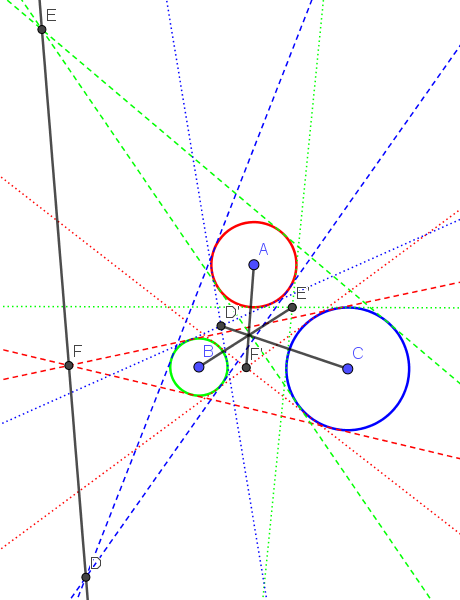
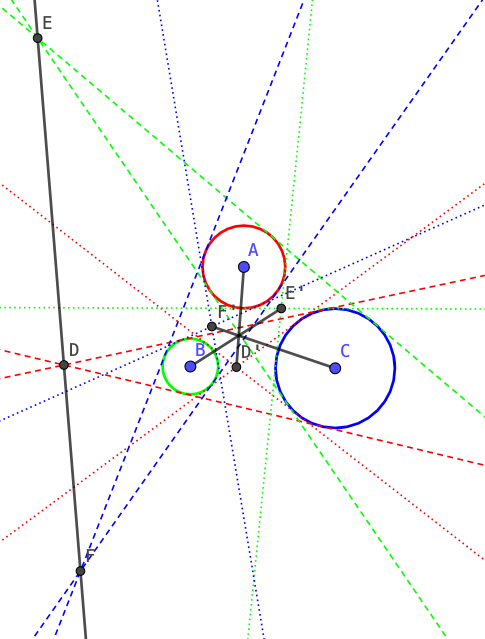
synthetic proof of X(12)
https://artofproblemsolving.com/community/c374081h2712819

diff --git a/monge.md b/monge.md
@@ -93,31 +93,41 @@ which is between *a* and *b*. So it should be the internal intersection. Denote 
 
 <img src="https://latex.codecogs.com/gif.latex?\frac{\overrightarrow{H'A}}{\overrightarrow{BH'}}=\frac{a-h'}{h'-b}=\frac{R}r\quad\text{(Eq.\,2)}">
 
+The external and internal intersections, are the external and internal **[homothetic centers](https://en.wikipedia.org/wiki/Homothetic_center#Circles)** of two circles, and they are harmonic conjugate with respect to the two circle centers:
+
+<img src="https://latex.codecogs.com/gif.latex?(A,B;H,H')=-1">
+
 For example, one circle is inside the other:
 
 <img src="https://latex.codecogs.com/gif.latex?\begin{cases}x^2+y^2=9\\x^2+(y+1)^2=1\end{cases}">
 
-The two external tangent lines are <img src="https://latex.codecogs.com/gif.latex?y=\pm\sqrt{3}ix/2-3/2"> (tangent points are <img src="https://latex.codecogs.com/gif.latex?(\pm{3}\sqrt{3}i,-6)"> and <img src="https://latex.codecogs.com/gif.latex?(\pm\sqrt{3}i,-3)">), and their intersection is <img src="https://latex.codecogs.com/gif.latex?(0,-3/2)">.
+The two external tangent lines are <img src="https://latex.codecogs.com/gif.latex?y=\pm\sqrt{3}ix/2-3/2"> (tangent points are <img src="https://latex.codecogs.com/gif.latex?(\pm{3}\sqrt{3}i,-6)"> and <img src="https://latex.codecogs.com/gif.latex?(\pm\sqrt{3}i,-3)">), and their intersection (internal homothetic center) is <img src="https://latex.codecogs.com/gif.latex?(0,-3/2)">.
 
-The two internal tangent lines are <img src="https://latex.codecogs.com/gif.latex?y=\pm\sqrt{15}ix/4-3/4"> (tangent points are <img src="https://latex.codecogs.com/gif.latex?(\pm{3}\sqrt{15}i,-12)"> and <img src="https://latex.codecogs.com/gif.latex?(\pm\sqrt{15}i,3)">), and their intersection is <img src="https://latex.codecogs.com/gif.latex?(0,-3/4)">.
+The two internal tangent lines are <img src="https://latex.codecogs.com/gif.latex?y=\pm\sqrt{15}ix/4-3/4"> (tangent points are <img src="https://latex.codecogs.com/gif.latex?(\pm{3}\sqrt{15}i,-12)"> and <img src="https://latex.codecogs.com/gif.latex?(\pm\sqrt{15}i,3)">), and their intersection (external homothetic center) is <img src="https://latex.codecogs.com/gif.latex?(0,-3/4)">.
 
 ### Monge's theorem
 
 <img src="diagrams/monge.png">
 
-**Monge's theorem** states that for any three circles in a plane, the intersection points of each of the three pairs of external tangent lines are collinear. This still holds even if one circle is completely inside the other.
+**Theorem 1** For any three circles in a plane, the intersection points of each of the three pairs of external tangent lines (i.e. three external homothetic centers) are collinear. This still holds even if one circle is completely inside the other.
 
-Let's apply Eq. 1 onto three external intersections *D*, *E* and *F*:
+This can be proved by applying Eq. 1 onto *D*, *E* and *F* and Menelaus's theorem:
 
-<img src="https://latex.codecogs.com/gif.latex?\frac{\overrightarrow{DA}}{\overrightarrow{DB}}\cdot\frac{\overrightarrow{EC}}{\overrightarrow{EA}}\cdot\frac{\overrightarrow{FB}}{\overrightarrow{FC}}=\frac{r_A}{r_B}\cdot\frac{r_C}{r_A}\cdot\frac{r_B}{r_C}=1">
+<img src="https://latex.codecogs.com/gif.latex?\frac{\overrightarrow{DB}}{\overrightarrow{DC}}\cdot\frac{\overrightarrow{EC}}{\overrightarrow{EA}}\cdot\frac{\overrightarrow{FA}}{\overrightarrow{FB}}=\frac{r_B}{r_C}\cdot\frac{r_C}{r_A}\cdot\frac{r_A}{r_B}=1">
 
-According to Menelaus's theorem, *D*, *E* and *F* are collinear.
+**Theorem 2** For three circles (*A*), (*B*) and (*C*) in a plane, the external homothetic center *D* of (*B*) and (*C*), the internal homothetic center *E'* of (*C*) and (*A*), and the internal homothetic center *F'* of (*A*) and (*B*), are collinear.
 
-The three internal intersections *D'*, *E'* and *F'* have a similar property. Let's apply Eq. 2 onto them:
+This can be proved by applying Eq. 1 onto *D*, Eq. 2 onto *E'* and *F'* and Menelaus's theorem:
 
-<img src="https://latex.codecogs.com/gif.latex?\frac{\overrightarrow{D'A}}{\overrightarrow{BD'}}\cdot\frac{\overrightarrow{E'C}}{\overrightarrow{AE'}}\cdot\frac{\overrightarrow{F'B}}{\overrightarrow{CF'}}=\frac{r_A}{r_B}\cdot\frac{r_C}{r_A}\cdot\frac{r_B}{r_C}=1">
+<img src="https://latex.codecogs.com/gif.latex?\frac{\overrightarrow{DB}}{\overrightarrow{DC}}\cdot\frac{\overrightarrow{CE'}}{\overrightarrow{E'A}}\cdot\frac{\overrightarrow{AF'}}{\overrightarrow{F'B}}=\frac{r_B}{r_C}\cdot\frac{r_C}{r_A}\cdot\frac{r_A}{r_B}=1">
 
-According to Ceva's theorem, *CD'*, *BE'* and *AF'* are concurrent.
+A famous triangle center *X*(12) mentioned [here](feuerbach.md#theorems-related-to-the-feuerbach-point) (Theorem 3) can be proved by this theorem.
+
+**Theorem 3** For three circles (*A*), (*B*) and (*C*) in a plane, let *D'*, *E'* and *F'* be the internal homothetic centers of (*B*)(*C*), (*C*)(*A*) and (*A*)(*B*), respectively, then *AD'*, *BE'* and *CF'* are concurrent.
+
+This can be proved by applying Eq. 2 onto *D'*, *E'* and *F'* and Ceva's theorem:
+
+<img src="https://latex.codecogs.com/gif.latex?\frac{\overrightarrow{BD'}}{\overrightarrow{D'C}}\cdot\frac{\overrightarrow{CE'}}{\overrightarrow{E'A}}\cdot\frac{\overrightarrow{AF'}}{\overrightarrow{F'B}}=\frac{r_B}{r_C}\cdot\frac{r_C}{r_A}\cdot\frac{r_A}{r_B}=1">
 
 ### Note
 

diff --git a/feuerbach.md b/feuerbach.md
@@ -51,14 +51,16 @@ Other proofs can be found [here](https://imomath.com/index.php?options=323) (Pro
 
 **Theorem 1** The circle through the [feet of the internal bisectors](https://mathworld.wolfram.com/IncentralTriangle.html) *I*<sub>A</sub>*I*<sub>B</sub>*I*<sub>C</sub> of a triangle *ABC* passes through the Feuerbach point.
 
-[Here](pythagoras/feuerbach-1.py) is a computational proof *starting from incircle*.
+[Here](pythagoras/feuerbach-1.py) is the computational proof *starting from incircle*.
 
 **Theorem 2** The Feuerbach point of a triangle *ABC* is the [anti-Steiner point](https://artofproblemsolving.com/community/c1646h1025320s3_antisteiner_point) of the Euler line of the [intouch triangle](https://mathworld.wolfram.com/ContactTriangle.html) *C*<sub>A</sub>*C*<sub>B</sub>*C*<sub>C</sub> with respect to the same intouch triangle *C*<sub>A</sub>*C*<sub>B</sub>*C*<sub>C</sub>.
 
-[Here](pythagoras/feuerbach-2.py) is a computational proof *starting from incircle*.
+[Here](pythagoras/feuerbach-2.py) is the computational proof *starting from incircle*.
 
 Other proofs of the two theorems can be found [here](http://blancosilva.github.io/post/2013/07/15/some-results-related-to-the-feuerbach-point.html) (computational) and [here](https://forumgeom.fau.edu/FG2012volume12/FG201205.pdf) (synthetic).
 
 **Theorem 3** Let *F*<sub>A</sub>, *F*<sub>B</sub>, *F*<sub>C</sub> be the touch points of the nine-point circle with the *A*-, *B*-, *C*- excircles, respectively. The lines *AF*<sub>A</sub>, *BF*<sub>B</sub>, *CF*<sub>C</sub> meet at *X*(12), the harmonic conjugate of the Feuerbach point *F*<sub>I</sub> with respect to the incenter *I* and the nine-point center *N*. <sup>[1](https://www.cut-the-knot.org/Curriculum/Geometry/FeuerbachIncidence.shtml)</sup>
 
-[Here](pythagoras/feuerbach-3.py) is a computational proof *starting from incircle*.
+[Here](pythagoras/feuerbach-3.py) is the computational proof *starting from incircle*.
+
+This theorem can also be proved by [Monge's theorem](monge.md#monges-theorem) (Theorem 2).

diff --git a/sphere.md b/sphere.md
@@ -30,7 +30,7 @@ Then it's easy to calculate the intersection *O* of the three tangent planes, an
 
 ### Eight vertices of a hexahedron lie on a sphere
 
-> If seven vertices of a (quadrilaterally-faced) hexahedron lie on a sphere, then so does the eighth vertex. <sup>[2](https://imomath.com/index.php?options=323) (Problem 11)</sup>
+> If seven vertices of a (quadrilaterally-faced) hexahedron lie on a sphere, then so does the eighth vertex. <sup>[1](https://imomath.com/index.php?options=323) (Problem 11)</sup>
 
 Just like the previous problem, we define arbitrary points *O*(0,0,0), *A*(*a*,0,0), *B*(*b*,*c*,0) and *C*(*d*,*e*,*f*), then calculate the sphere passing through these four points:
 
